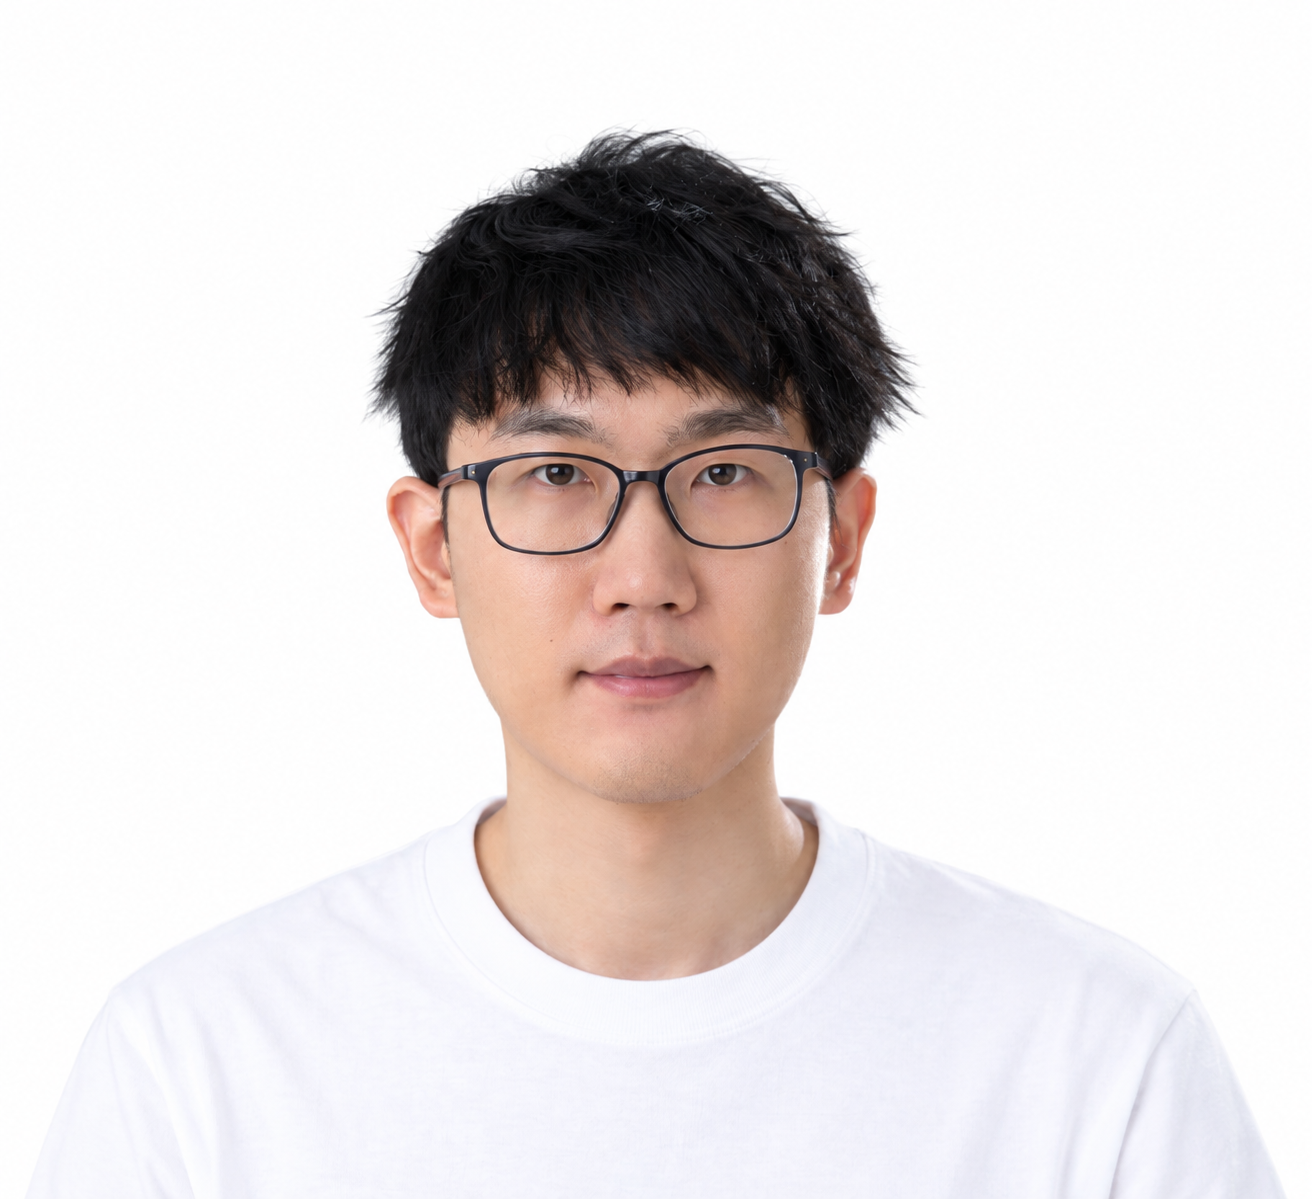
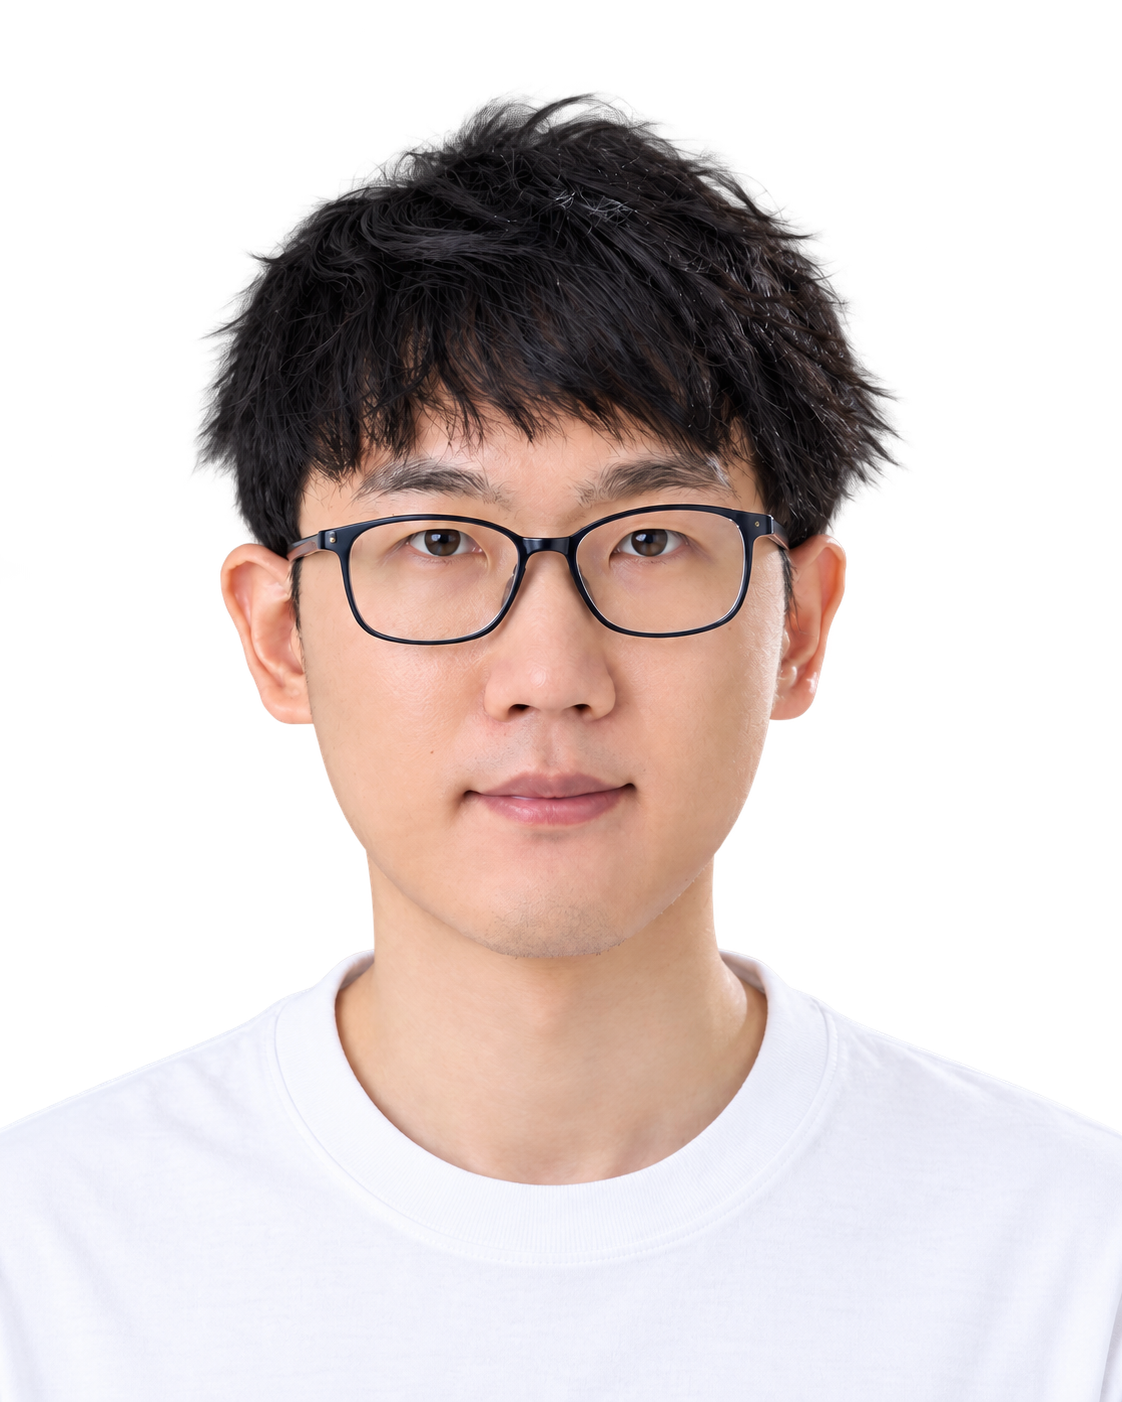
Update homepage introduction, contact details and academic sections

Changed region(s): [[0.156, 0.0617, 0.8111, 0.8641], [0.967, 0.8949, 1.0, 1.0], [0.8422, 0.9875, 0.8734, 1.0]]

diff --git a/index.html b/index.html
@@ -3,7 +3,7 @@
 <head>
   <meta charset="utf-8">
   <meta name="viewport" content="width=device-width, initial-scale=1">
-  <meta name="description" content="Hengyi Li — mathematics, stochastics and Gaussian diffusions. Theses, course notes and essays, with a downloadable CV.">
+  <meta name="description" content="Hengyi Li — mathematics, stochastics and Gaussian diffusions. Theses, course notes and essays.">
   <title>Hengyi Li | Mathematics</title>
   <link rel="stylesheet" href="assets/css/resume.css">
 </head>
@@ -16,11 +16,13 @@
   <main id="main">
     <section class="intro" aria-labelledby="name">
       <div class="intro-copy">
-      <div class="eyebrow">Mathematics · Probability · Stochastics</div>
       <h1 id="name">Hengyi Li</h1>
-      <p class="lead">My work explores stochastic processes and convergence to equilibrium, with a focus on Gaussian diffusions.</p>
-      <p class="intro-note">MSc Mathematics (Stochastics), University of Amsterdam.</p>
-      <div class="contact"><a class="button" href="files/Hengyi-Li-CV.pdf" download>Download CV <span aria-hidden="true">↓</span></a><a href="mailto:pieterhelmold@gmail.com">Email ↗</a><a href="https://github.com/peterhelmold">GitHub ↗</a></div>
+      <p class="lead">Ignorance, yet knowledge. Chaos, yet harmony</p>
+      <address class="intro-details" aria-label="Contact details">
+        <div><span class="detail-label">Location</span><span>Maarssen, Utrecht, Netherlands</span></div>
+        <div><span class="detail-label">Email</span><a href="mailto:pieterhelmold@gmail.com">pieterhelmold@gmail.com</a></div>
+      </address>
+      <div class="contact"><a class="button" href="files/Hengyi-Li-CV.pdf" download>Download CV <span aria-hidden="true">↓</span></a><a href="https://github.com/peterhelmold">GitHub ↗</a><a href="https://www.linkedin.com/in/peterhelmold/">LinkedIn ↗</a></div>
       </div>
       <figure class="portrait"><img src="images/profile.png" alt="Portrait of Hengyi Li" width="1312" height="1199" fetchpriority="high"></figure>
     </section>
@@ -37,7 +39,7 @@
     <section class="section" id="research">
       <h2>Research</h2>
       <div class="section-body">
-        <article class="thesis"><div class="eyebrow">Master’s thesis · March — August 2026</div><h3>Accelerating Convergence to Equilibrium in Gaussian Diffusions</h3><p class="subtitle">University of Amsterdam · Supervisor: Dr. S. G. Cox</p><p>Characterised linear diffusions preserving a prescribed Gaussian invariant measure via the Lyapunov equation, and analysed convergence in L²-Wasserstein distance through spectral properties of the drift matrix.</p><p>Compared optimal reversible and non-reversible convergence rates under noise constraints, including explicit low-dimensional constructions and the arbitrary-dimensional optimisation problem. Applied the framework to kinetic Langevin dynamics and examined extensions to strongly convex non-Gaussian potentials.</p><div class="course-resources research-resources"><a class="notes-placeholder" href="https://dspace.uba.uva.nl/server/api/core/bitstreams/7305e0de-9ef9-4478-8791-238a3e2ffd3a/content">UvA REPOSITORY <span aria-hidden="true">↗</span></a><!-- Replace this placeholder with the uploaded latest thesis PDF link. --><span class="notes-placeholder">LATEST PDF <small>To be uploaded</small></span></div></article>
+        <article class="thesis"><div class="eyebrow">Master’s thesis · March — August 2026</div><h3>Accelerating Convergence to Equilibrium in Gaussian Diffusions</h3><p class="subtitle">Supervisor: Dr. S. G. Cox</p><p>Characterised linear diffusions preserving a prescribed Gaussian invariant measure via the Lyapunov equation, and analysed convergence in L²-Wasserstein distance through spectral properties of the drift matrix.</p><p>Compared optimal reversible and non-reversible convergence rates under noise constraints, including explicit low-dimensional constructions and the arbitrary-dimensional optimisation problem. Applied the framework to kinetic Langevin dynamics and examined extensions to strongly convex non-Gaussian potentials.</p><div class="course-resources research-resources"><!-- Replace this placeholder with the uploaded latest thesis PDF link. --><span class="notes-placeholder">LATEST PDF <small>To be uploaded</small></span><a class="notes-placeholder" href="https://dspace.uba.uva.nl/server/api/core/bitstreams/7305e0de-9ef9-4478-8791-238a3e2ffd3a/content">UvA REPOSITORY <span aria-hidden="true">↗</span></a></div></article>
         <article class="thesis"><div class="eyebrow">Bachelor’s thesis · September 2022 — May 2023</div><h3>Random Walk and Boundary Value Problems</h3><p class="subtitle">Supervisor: Dr. Ye Liu</p><p>Constructed simple random walk models across multiple dimensions to study probability distributions, recurrence and transience, and their applications to boundary value problems.</p><!-- Replace this placeholder with an anchor pointing to the thesis PDF when supplied. --><div class="course-resources research-resources"><span class="notes-placeholder">PDF <small>To be uploaded</small></span></div></article>
       </div>
     </section>
@@ -45,8 +47,6 @@
     <section class="section" id="courses">
       <h2>Coursework</h2>
       <div class="section-body">
-        <p class="materials-intro">Coursework, organised by degree, with notes and course essays collected under each course.</p>
-        <p class="materials-status">Notes and course essays will be linked below as files become available.</p>
         <div class="course-group">
           <h3 class="degree-heading">Master’s courses</h3>
           <ul class="course-list">
@@ -85,30 +85,14 @@
         <div class="course-group">
           <h3 class="degree-heading">Bachelor’s courses</h3>
           <ul class="course-list">
-          <li class="course-row"><h4>Advanced Linear Algebra</h4>
-            <!-- Replace this placeholder with the course notes PDF link when supplied. -->
-            <div class="course-resources"><span class="notes-placeholder">NOTES <small>To be uploaded</small></span></div><!-- Add notes or project links here when files are available. --></li>
-          <li class="course-row"><h4>Complex Functions</h4>
-            <!-- Replace this placeholder with the course notes PDF link when supplied. -->
-            <div class="course-resources"><span class="notes-placeholder">NOTES <small>To be uploaded</small></span></div><!-- Add notes or project links here when files are available. --></li>
-          <li class="course-row"><h4>Functional Analysis</h4>
-            <!-- Replace this placeholder with the course notes PDF link when supplied. -->
-            <div class="course-resources"><span class="notes-placeholder">NOTES <small>To be uploaded</small></span></div><!-- Add notes or project links here when files are available. --></li>
-          <li class="course-row"><h4>Metric Spaces</h4>
-            <!-- Replace this placeholder with the course notes PDF link when supplied. -->
-            <div class="course-resources"><span class="notes-placeholder">NOTES <small>To be uploaded</small></span></div><!-- Add notes or project links here when files are available. --></li>
-          <li class="course-row"><h4>Numerical Analysis</h4>
-            <!-- Replace this placeholder with the course notes PDF link when supplied. -->
-            <div class="course-resources"><span class="notes-placeholder">NOTES <small>To be uploaded</small></span></div><!-- Add notes or project links here when files are available. --></li>
-          <li class="course-row"><h4>Optimisation Theory</h4>
-            <!-- Replace this placeholder with the course notes PDF link when supplied. -->
-            <div class="course-resources"><span class="notes-placeholder">NOTES <small>To be uploaded</small></span></div><!-- Add notes or project links here when files are available. --></li>
-          <li class="course-row"><h4>Ordinary Differential Equations and Control</h4>
-            <!-- Replace this placeholder with the course notes PDF link when supplied. -->
-            <div class="course-resources"><span class="notes-placeholder">NOTES <small>To be uploaded</small></span></div><!-- Add notes or project links here when files are available. --></li>
-          <li class="course-row"><h4>Partial Differential Equations</h4>
-            <!-- Replace this placeholder with the course notes PDF link when supplied. -->
-            <div class="course-resources"><span class="notes-placeholder">NOTES <small>To be uploaded</small></span></div><!-- Add notes or project links here when files are available. --></li>
+          <li class="course-row"><h4>Advanced Linear Algebra</h4></li>
+          <li class="course-row"><h4>Complex Functions</h4></li>
+          <li class="course-row"><h4>Functional Analysis</h4></li>
+          <li class="course-row"><h4>Metric Spaces</h4></li>
+          <li class="course-row"><h4>Numerical Analysis</h4></li>
+          <li class="course-row"><h4>Optimisation Theory</h4></li>
+          <li class="course-row"><h4>Ordinary Differential Equations and Control</h4></li>
+          <li class="course-row"><h4>Partial Differential Equations</h4></li>
           </ul>
         </div>
       </div>
@@ -119,6 +103,6 @@
       <div class="section-body"><dl class="skills"><dt>Tools</dt><dd>Python, MATLAB, Java, Hugin, Microsoft Excel, Adobe After Effects</dd><dt>Languages</dt><dd>Chinese (native), English (language of instruction), Japanese (fluent)</dd><dt>Beyond mathematics</dt><dd>Literature, philosophy, history, painting, cinema and experimental video.</dd></dl></div>
     </section>
   </main>
-  <footer><span>Hengyi Li</span><a href="mailto:pieterhelmold@gmail.com">pieterhelmold@gmail.com</a><a href="#main">Back to top ↑</a></footer>
+  <footer><div class="license">© Hengyi Li · <a rel="license" href="https://creativecommons.org/licenses/by-nc/4.0/">CC BY-NC 4.0</a></div><a href="#main">Back to top ↑</a></footer>
 </body>
 </html>

diff --git a/assets/css/resume.css b/assets/css/resume.css
@@ -1,5 +1,5 @@
 :root{color-scheme:light;--paper:#f2f0e9;--ink:#292c2c;--muted:#626765;--accent:#235c7a;--line:#c8cac3;--serif:Georgia,"Times New Roman",serif;--sans:system-ui,-apple-system,BlinkMacSystemFont,"Segoe UI",sans-serif}
-*{box-sizing:border-box}html{scroll-behavior:smooth;scroll-padding-top:28px}body{margin:0;background:var(--paper);background-image:repeating-linear-gradient(0deg,transparent,transparent 3px,rgba(70,65,45,.018) 3px,rgba(70,65,45,.018) 4px);color:var(--ink);font:16px/1.75 var(--sans);-webkit-font-smoothing:antialiased}::selection{background:#cedfe5}a{color:var(--accent);text-underline-offset:5px;text-decoration-thickness:1px}a:hover{text-decoration:underline}a:focus-visible{outline:2px solid var(--accent);outline-offset:5px}.header,main,footer{width:min(1180px,calc(100% - 96px));margin:auto}.header{display:flex;align-items:center;justify-content:space-between;gap:24px;padding:23px 0;border-bottom:1px solid var(--ink)}.header a{text-decoration:none}.header a:hover{color:var(--ink)}.wordmark{display:flex;align-items:center;gap:10px;font:bold 21px var(--serif);color:var(--ink)}.wordmark::before{content:"";width:9px;height:9px;background:var(--accent);margin-right:4px}.wordmark span{font:11px var(--sans);color:var(--muted)}nav{display:flex;gap:26px;font-size:12px}
+*{box-sizing:border-box}html{scroll-behavior:smooth;scroll-padding-top:28px}body{margin:0;background:var(--paper);background-image:repeating-linear-gradient(0deg,transparent,transparent 3px,rgba(70,65,45,.018) 3px,rgba(70,65,45,.018) 4px);color:var(--ink);font:16px/1.75 var(--sans);-webkit-font-smoothing:antialiased}::selection{background:#cedfe5}a{color:var(--accent);text-underline-offset:5px;text-decoration-thickness:1px}a:hover{text-decoration:underline}a:focus-visible{outline:2px solid var(--accent);outline-offset:5px}.header,main,footer{width:min(1180px,calc(100% - 96px));margin:auto}.header{display:flex;align-items:center;justify-content:space-between;gap:24px;padding:23px 0;border-bottom:1px solid var(--ink)}.header a{text-decoration:none}.header a:hover{color:var(--ink)}.wordmark{display:flex;align-items:center;gap:10px;font:bold 21px var(--serif);color:var(--ink)}.wordmark span{font:11px var(--sans);color:var(--muted)}nav{display:flex;gap:26px;font-size:12px}
 .intro{display:grid;grid-template-columns:minmax(0,1fr) 238px;gap:64px;padding:72px 0 66px;align-items:center}.eyebrow{text-transform:uppercase;letter-spacing:.13em;font-size:10px;font-weight:650;color:var(--accent)}h1,h2,h3,p{margin-top:0}h1{font:normal clamp(60px,8.4vw,110px)/1.07 var(--serif);letter-spacing:-.06em;margin:23px 0 28px}.lead{font:23px/1.6 var(--serif);max-width:640px;margin-bottom:16px}.intro-note{font-size:13px;color:var(--muted)}.contact{display:flex;align-items:center;flex-wrap:wrap;gap:27px;margin-top:29px;font-size:12px}.contact a{text-decoration:none}.contact a:hover{text-decoration:underline}.button{border:1px solid var(--accent);color:var(--accent);padding:10px 16px;display:inline-flex;gap:24px;transition:background .15s,color .15s}.button:hover{background:var(--accent);color:white}.contents{border-left:1px solid var(--line);padding-left:28px}.contents-title{font:25px/1.3 var(--serif);margin:17px 0 22px}.contents ol{list-style:none;margin:0;padding:0}.contents li{border-top:1px solid var(--line)}.contents a{display:flex;align-items:baseline;justify-content:space-between;gap:10px;padding:9px 0;font-size:11px;text-decoration:none;color:var(--muted)}.contents a:hover{color:var(--accent)}.contents span{font:10px/1.5 monospace;color:var(--accent)}
 .section{display:grid;grid-template-columns:210px minmax(0,1fr);gap:44px;padding:42px 0 46px;border-top:1px solid var(--ink)}h2{position:sticky;top:28px;align-self:start;font:25px/1.25 var(--serif);letter-spacing:-.025em}.number{display:block;font:11px/1.5 monospace;letter-spacing:.08em;color:var(--accent);margin-bottom:13px}.entry{padding-bottom:26px;margin-bottom:26px;border-bottom:1px solid var(--line)}.entry:last-child{padding-bottom:0;margin-bottom:0;border-bottom:0}.entry-heading{display:flex;justify-content:space-between;align-items:baseline;gap:22px}h3{font:bold 20px/1.4 var(--serif);margin-bottom:8px}.date{flex-shrink:0;font:11px/1.7 var(--sans);color:var(--muted);margin-bottom:8px;font-variant-numeric:tabular-nums}.subtitle{font-size:12px;color:var(--accent);margin-bottom:12px}.entry p:not(.subtitle):not(.date),.thesis p:not(.subtitle){font-size:14px;line-height:1.8;color:var(--muted);margin-bottom:12px}.compact .subtitle{margin-bottom:0}.thesis{padding:30px 34px;background:rgba(255,255,255,.35);border:1px solid var(--line);border-top:3px solid var(--accent);margin-bottom:30px;position:relative}.thesis h3{font:normal clamp(29px,3.4vw,43px)/1.16 var(--serif);letter-spacing:-.035em;margin:21px 0 18px;max-width:660px}.thesis .subtitle{padding-bottom:18px;border-bottom:1px solid var(--line);margin-bottom:20px}.text-link{display:flex;justify-content:space-between;align-items:center;gap:18px;font-size:12px;font-weight:600;padding-top:17px;border-top:1px solid var(--line);margin-top:22px;text-decoration:none}.text-link span{font-size:20px}.skills{margin:0;font-size:14px;display:grid;grid-template-columns:150px 1fr;gap:18px 24px}.skills dt{font-weight:500}.skills dd{margin:0;color:var(--muted)}footer{display:flex;gap:24px;justify-content:space-between;border-top:1px solid var(--ink);padding:24px 0 32px;font-size:11px;color:var(--muted)}footer>span{font-family:var(--serif);font-size:16px;color:var(--ink)}.skip{position:absolute;left:16px;top:-100px;background:white;padding:12px;z-index:10}.skip:focus{top:12px}
 @media(max-width:980px){.header,main,footer{width:calc(100% - 64px)}.intro{gap:36px;grid-template-columns:minmax(0,1fr) 190px}.contents{padding-left:22px}.section{grid-template-columns:155px minmax(0,1fr);gap:28px}.entry-heading{display:block}.date{margin-bottom:8px}.wordmark span{display:none}}
@@ -24,7 +24,7 @@
 :root{--line:#d8d9d3;--radius:24px;--shadow:0 8px 30px rgba(36,49,55,.045)}
 body{background-image:none}
 .header{border-bottom:1px solid var(--line)}
-.wordmark::before{border-radius:3px}
+
 nav{gap:6px;align-items:center}
 nav a{padding:9px 13px;border-radius:12px;transition:background .15s}
 nav a:hover{background:rgba(255,255,255,.65)}
@@ -67,6 +67,7 @@ footer{border-top:1px solid var(--line)}
 .course-list{display:grid;grid-template-columns:repeat(2,minmax(0,1fr));gap:14px;border-top:0;align-items:stretch}
 .course-row,.course-row:last-child{display:flex;flex-direction:column;min-width:0;padding:20px 18px;border:1px solid rgba(35,92,122,.09);border-radius:16px;background:rgba(255,255,255,.65)}
 .course-row h4{margin-bottom:18px;overflow-wrap:normal}
+.course-row h4:last-child{margin-bottom:0}
 .course-resources{margin-top:auto;gap:8px}
 .notes-placeholder{gap:8px;padding:6px 9px}
 @media(max-width:680px){.course-list{grid-template-columns:1fr}.course-row,.course-row:last-child{padding:18px 16px}}
@@ -75,3 +76,16 @@ footer{border-top:1px solid var(--line)}
 .research-resources{margin-top:24px;gap:10px}
 .research-resources a.notes-placeholder{text-decoration:none}
 .research-resources a.notes-placeholder:hover{background:rgba(35,92,122,.06);border-color:var(--accent)}
+
+/* Readable contact information below the name and personal motto. */
+.intro-details{display:grid;gap:9px;margin-top:24px;font-style:normal;font-size:14px}
+.intro-details>div{display:grid;grid-template-columns:68px minmax(0,1fr);gap:16px;align-items:baseline}
+.detail-label{font-size:11px;color:var(--muted);letter-spacing:.04em}
+.intro-details a{overflow-wrap:anywhere;text-decoration:none}
+.intro-details a:hover{text-decoration:underline}
+@media(max-width:680px){.intro-details{font-size:13px}.intro-details>div{grid-template-columns:58px minmax(0,1fr);gap:10px}}
+
+/* Keep education dates beside the first line of each school name. */
+#education .entry-heading{display:grid;grid-template-columns:minmax(0,1fr) auto;align-items:baseline;gap:16px}
+#education .entry-heading h3{min-width:0;overflow-wrap:anywhere}
+#education .entry-heading .date{white-space:nowrap;text-align:right}
